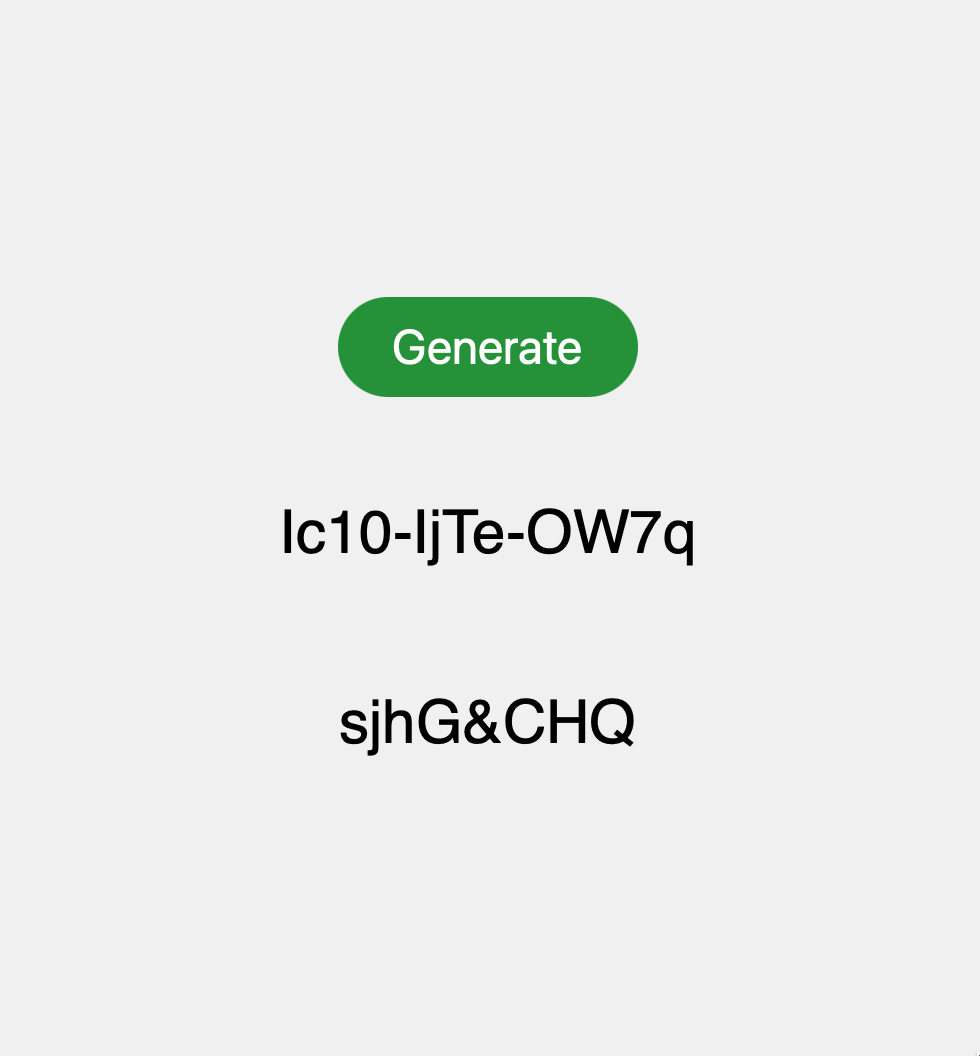
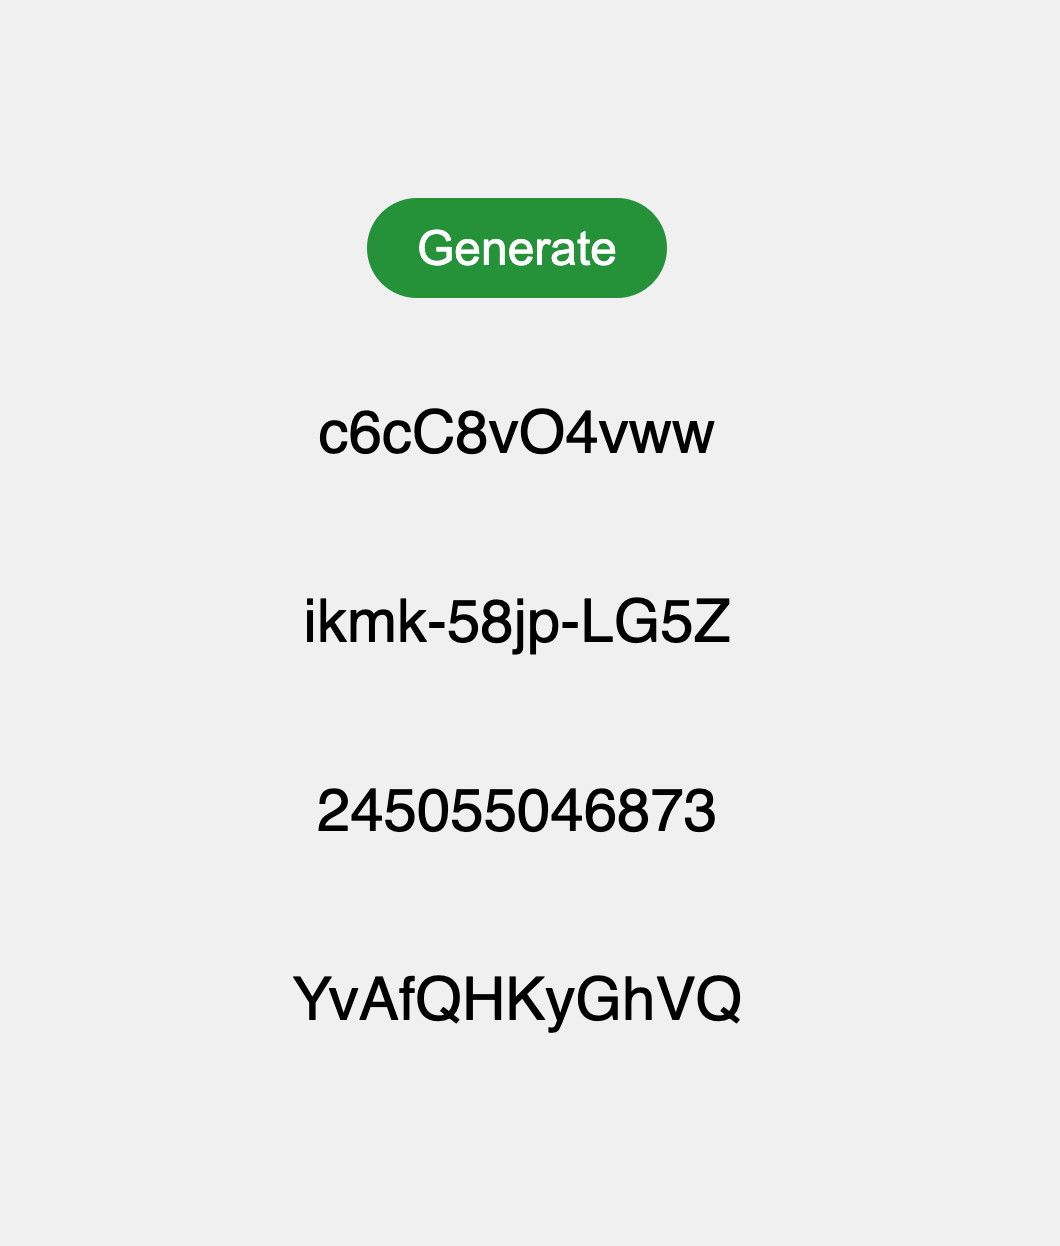
perf: optimize gen

diff --git a/templates/index.html b/templates/index.html
@@ -39,18 +39,10 @@
     <form action="/" method="POST">
         <button type="submit">Generate</button>
     </form>
-    {% if password %}
-        <p>{{ password }}</p>
-    {% endif %}
-    {% if password2 %}
-        <p>{{ password2 }}</p>
-    {% endif %}
-    {% if password3 %}
-        <p>{{ password3 }}</p>
-    {% endif %}
-    {% if password4 %}
-        <p>{{ password4 }}</p>
-    {% endif %}
-    
+    {% for password in password_list %}
+        {% if password %}
+            <p>{{ password }}</p>
+        {% endif %}
+    {% endfor %}
 </body>
 </html>

diff --git a/app.py b/app.py
@@ -5,50 +5,100 @@ import string
 app = Flask(__name__)
 
 
-# 生成10-12位字母+数字+特殊字符
+# 常量定义
+SPEC_STR = "!@#$%&*"
+CHOICE_MIX = string.ascii_letters + string.digits
+CHOICE_DIG = string.digits
+CHOICE_LET = string.ascii_letters
+RANDOM_INT = random.randint(10, 12)
+HTML_TEMPLATE = "index.html"
+
+
+# 生成指定长度的由字母+数字+特殊字符组成的密码
 def genpwd(length):
-    characters = string.ascii_letters + string.digits + "!@#$%&*-"
-    password = random.choice(
-        string.ascii_letters + string.digits
-    )  # 确保密码不以特殊字符开头
+    # 确保密码不以特殊字符开头
+    password = random.choice(CHOICE_MIX)
 
-    password += "".join(random.choice(characters) for _ in range(length - 2))
-    password += random.choice(
-        string.ascii_letters + string.digits
-    )  # 确保密码不以特殊字符结尾
+    characters = CHOICE_MIX + SPEC_STR
+    password += "".join(
+        random.choice(characters) for _ in range(length - 2)
+    )
 
-    return password
+    # 确保密码不以特殊字符结尾
+    password += random.choice(CHOICE_MIX)
+
+    return insert_special_character(password, SPEC_STR)
 
 
-# 根据 choice 生成 10-12 位密码
+# 如果生成的密码中不存在特殊字符，则随机插入一个特殊字符到密码中
+def insert_special_character(string, special_characters):
+    has_special_character = False
+
+    for char in special_characters:
+        if char in string:
+            has_special_character = True
+            break
+
+    if not has_special_character:
+        # 随机选择插入位置
+        index = random.randint(1, len(string) - 1)
+        previous_char = string[index - 1]
+        next_char = string[index]
+
+        while previous_char in special_characters or next_char in special_characters:
+            index = random.randint(1, len(string) - 1)
+            previous_char = string[index - 1]
+            next_char = string[index]
+
+        char_to_insert = random.choice(special_characters)
+        string = string[:index] + char_to_insert + string[index:]
+
+    # 删除多余的特殊字符
+    indices = [i for i in range(1, len(string) - 1) if string[i] in special_characters]
+    if len(indices) > 1:
+        index_to_remove = random.choice(indices[:-1])
+        string = string[:index_to_remove] + string[index_to_remove + 1:]
+
+    return string
+
+
+# 移除末尾的连接符-
+def remove_trailing_hyphen(password):
+    last = password[-1]
+    if last == "-":
+        return password[:-1]
+    else:
+        return password
+    
+
+# 根据 choice 生成指定长度的密码
 def genpwd_by(choice):
     password = ""
     for _ in range(3):
         segment = "".join(
             random.choice(choice) for _ in range(4)
         )
-        password += segment + "-"
-    
-    password = password[:-1]  # 移除末尾的连接符-
-    
-    return password
+
+        if choice == CHOICE_MIX:
+            password += segment + "-"
+        else:
+            password += segment
+
+    return remove_trailing_hyphen(password)
 
 
 @app.route("/", methods=["GET", "POST"])
 def home():
     if request.method == "POST":
-        pwda = genpwd(random.randint(10, 12))
-        pwdb = genpwd_by(string.ascii_letters + string.digits)
-        pwdc = genpwd_by(string.digits)
-        pwdd = genpwd_by(string.ascii_letters)
-        
-        return render_template("index.html", 
-                               password=pwda, 
-                               password2=pwdb, 
-                               password3=pwdc,
-                               password4=pwdd)
-    
-    return render_template("index.html")
+        pwda = genpwd(RANDOM_INT)
+        pwdb = genpwd_by(CHOICE_MIX)
+        pwdc = genpwd_by(CHOICE_DIG)
+        pwdd = genpwd_by(CHOICE_LET)
+
+        # 返回列表，模板引擎可以直接遍历
+        return render_template(HTML_TEMPLATE, password_list = [pwda, pwdb, pwdc, pwdd])
+
+    return render_template(HTML_TEMPLATE)
 
 
 if __name__ == "__main__":
